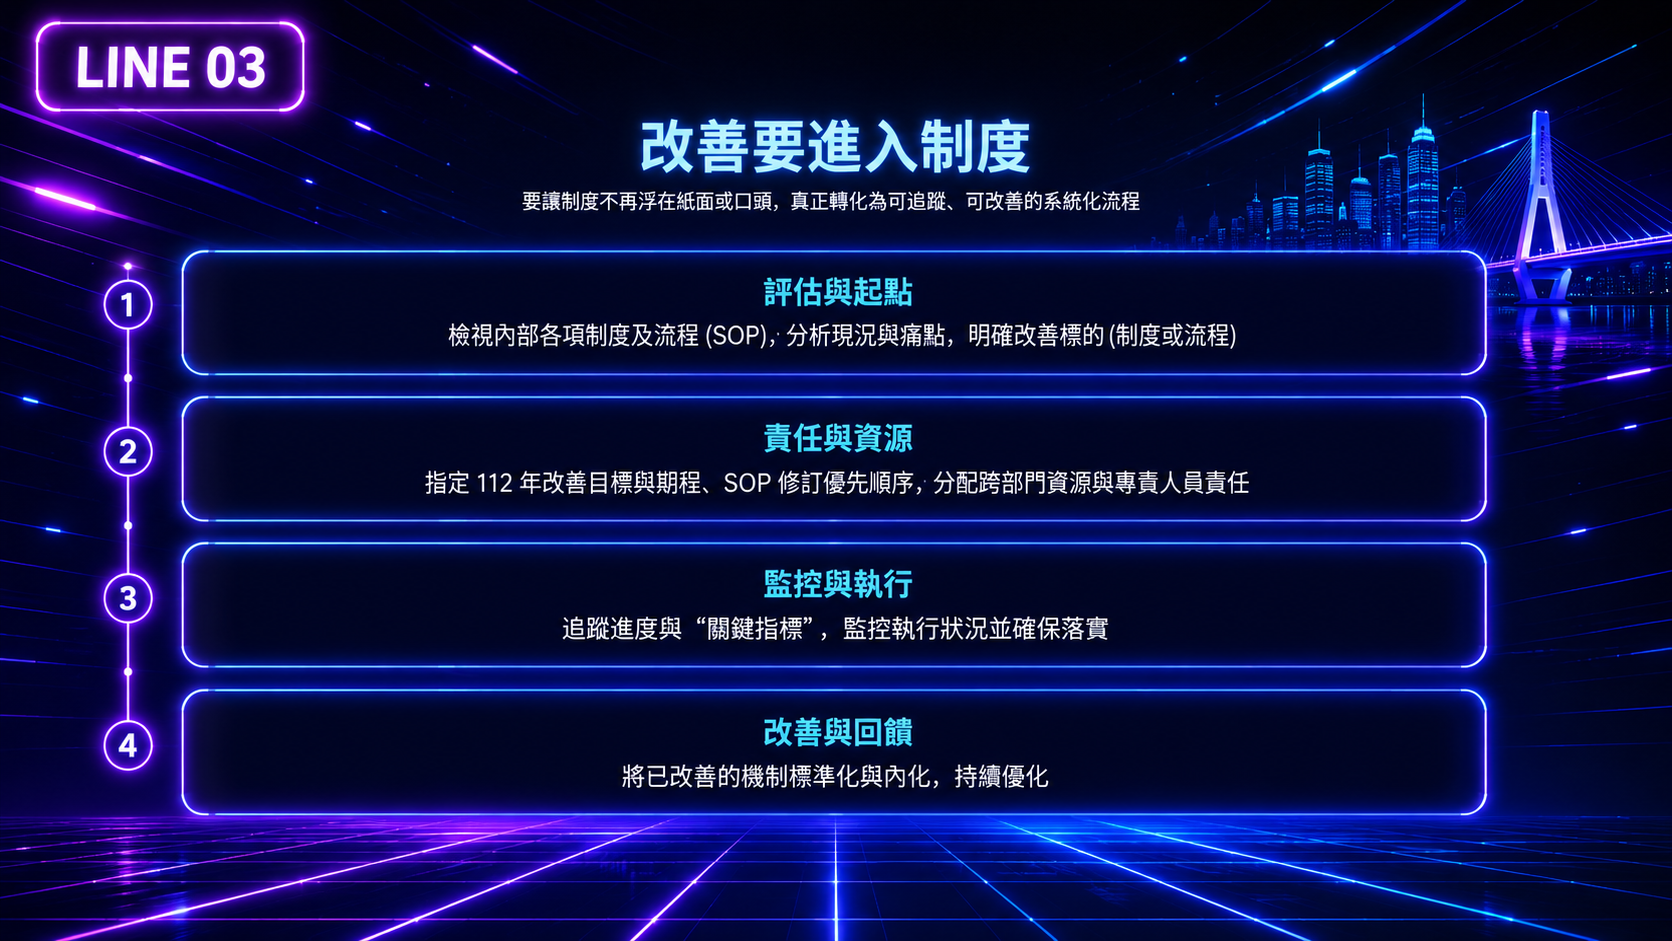
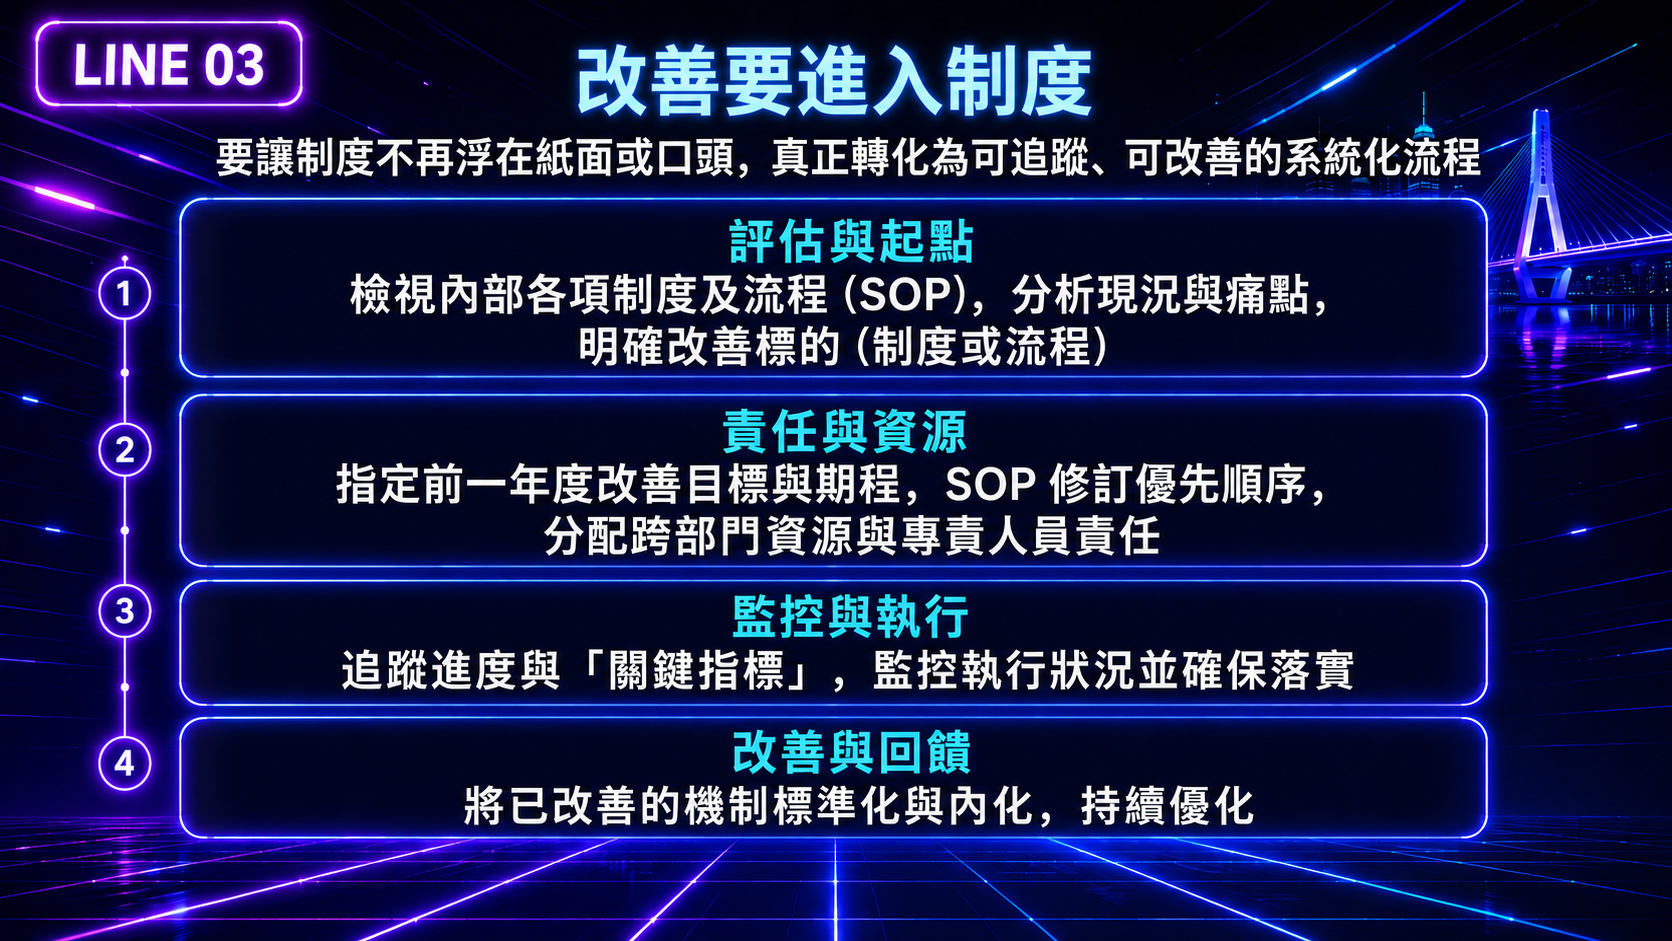
更新第6、7、8頁圖片，放大第1頁作者姓名

diff --git a/index.html b/index.html
@@ -54,7 +54,7 @@
     .title-slide h1 { color: #fff; margin: 0.15em 0; font-size: 2.0em; line-height: 1.25; text-shadow: 0 0 40px rgba(0,136,255,0.4); }
     .title-slide h2 { font-size: 1.0em; }
     .title-slide p.subtitle { font-size: 0.55em; color: var(--text2); margin: 0.2em auto; max-width: 800px; line-height: 1.5; }
-    .title-slide .author { margin-top: 0.8em; font-size: 0.5em; color: var(--text2); letter-spacing: 0.05em; }
+    .title-slide .author { margin-top: 1.6em; font-size: 1em; color: var(--text2); letter-spacing: 0.05em; }
     .title-slide .video-center {
       display: flex; justify-content: center; align-items: center;
       width: 100%; margin: 0.5em 0;